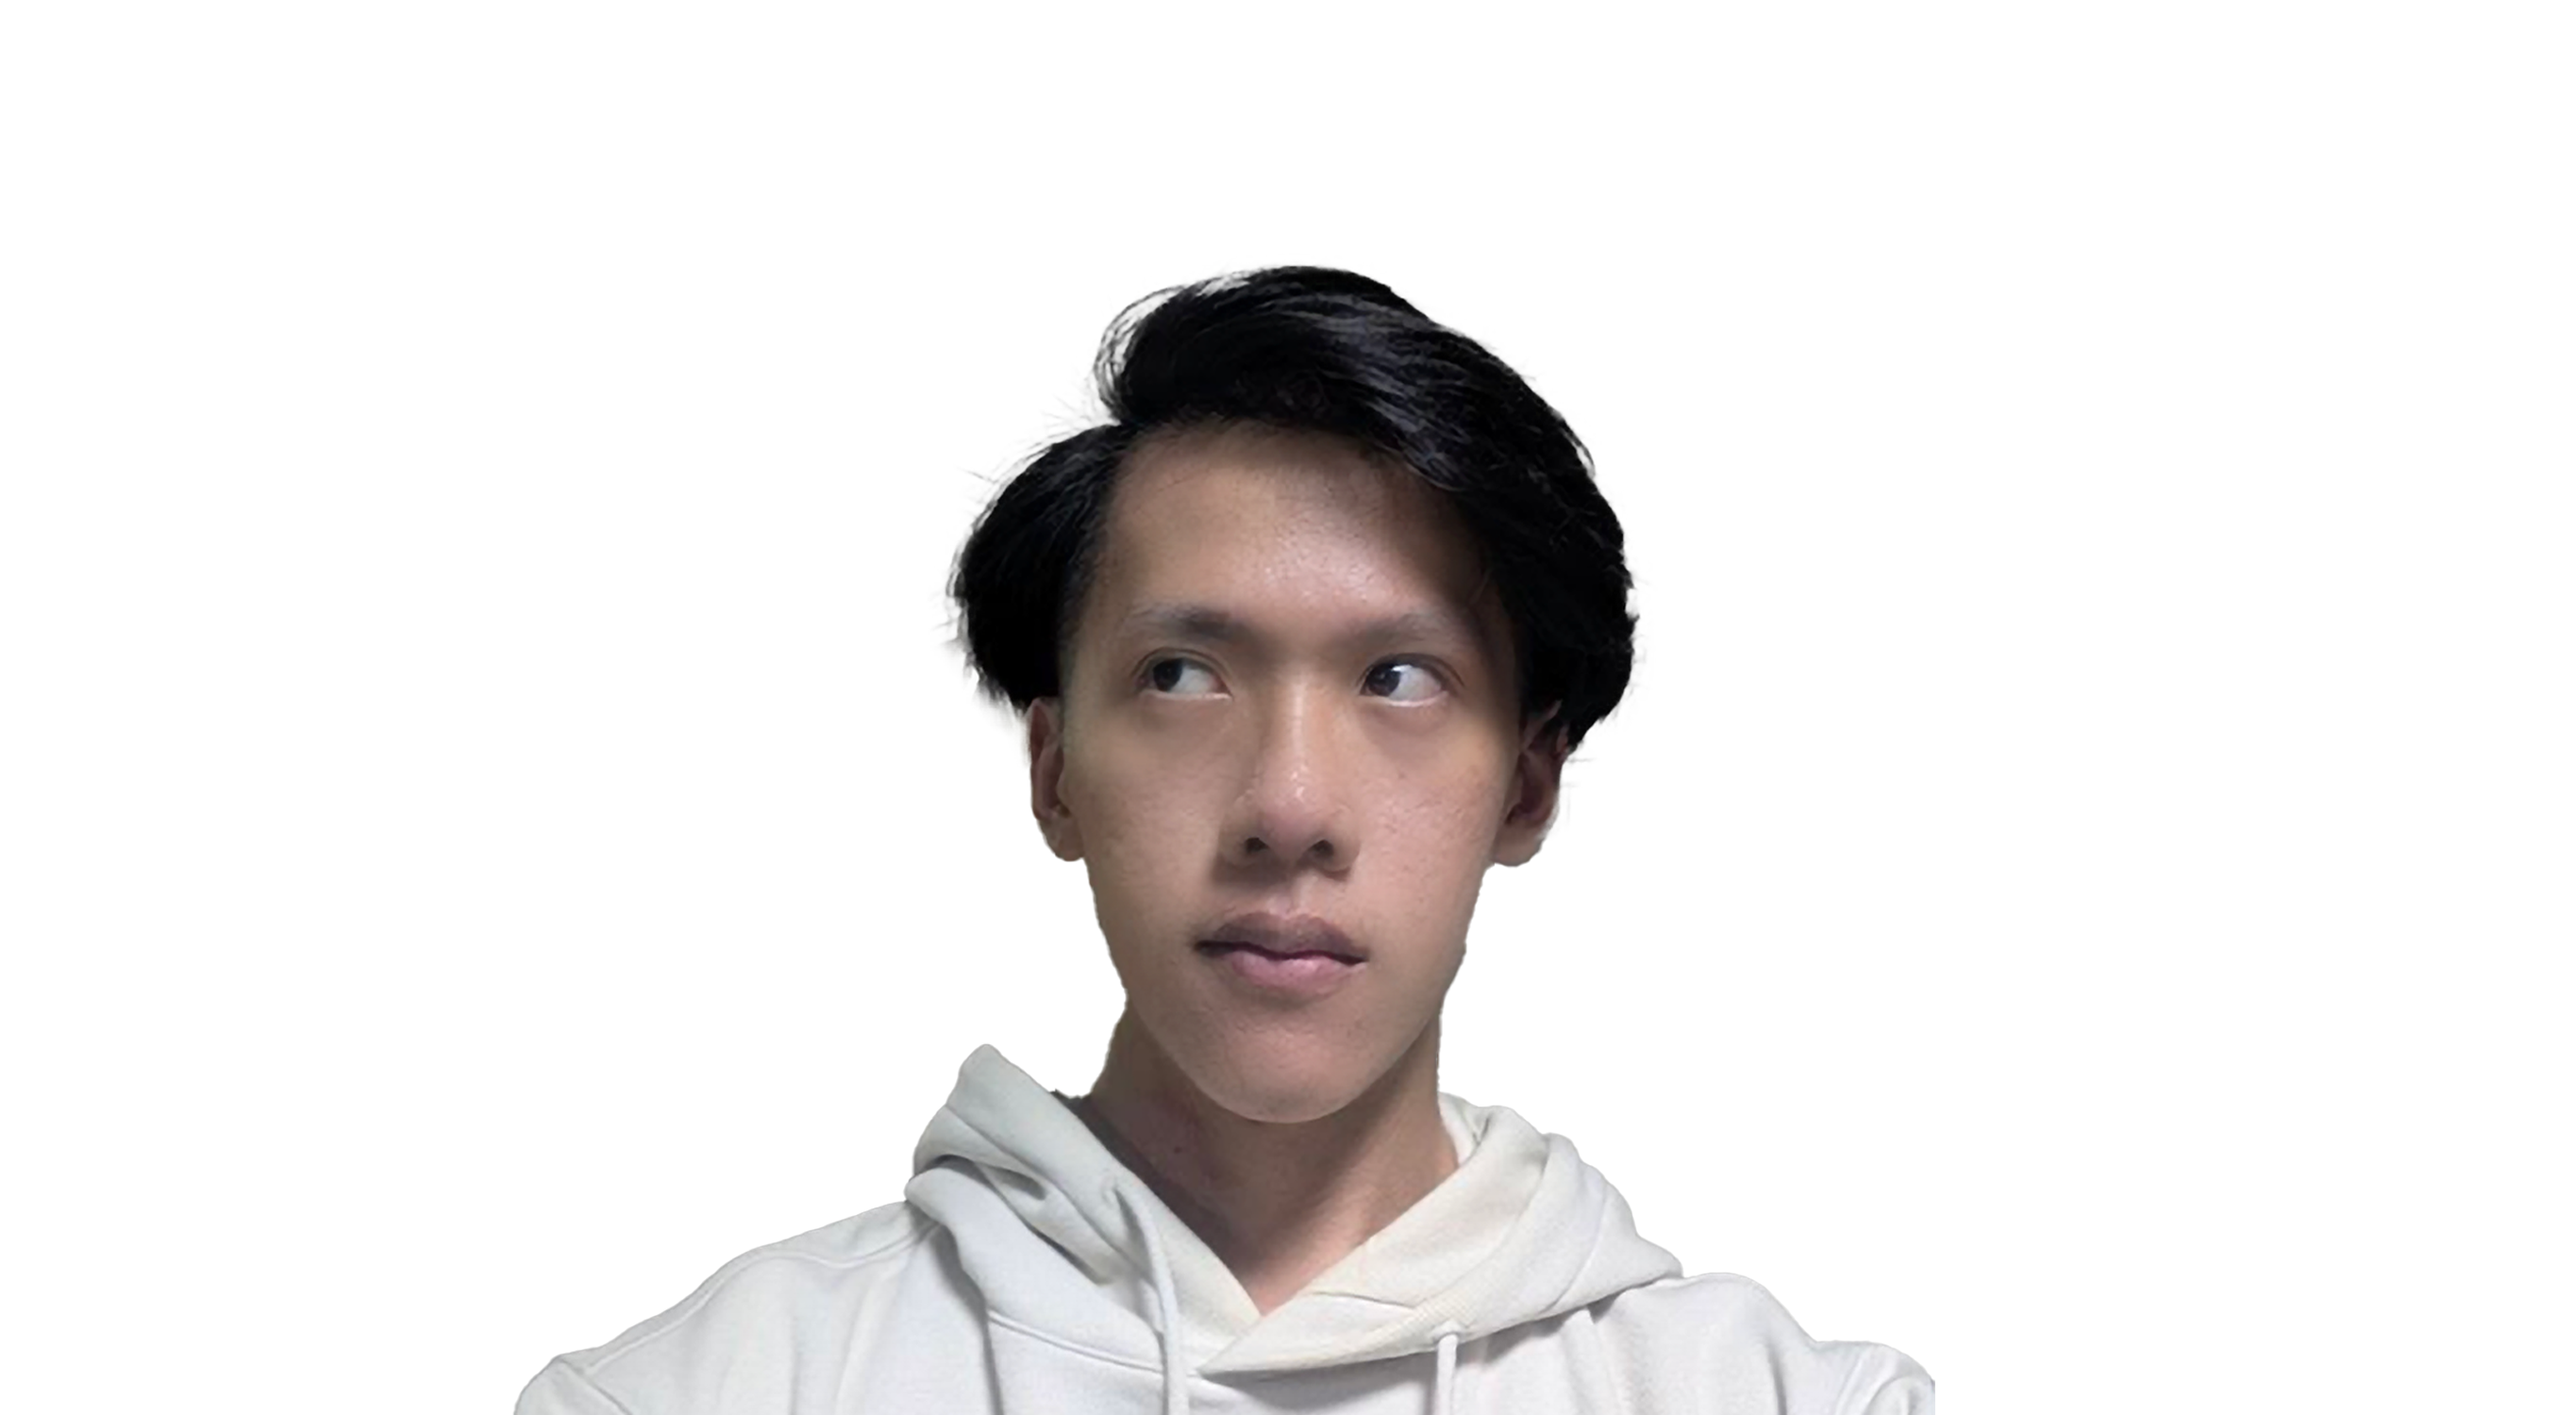
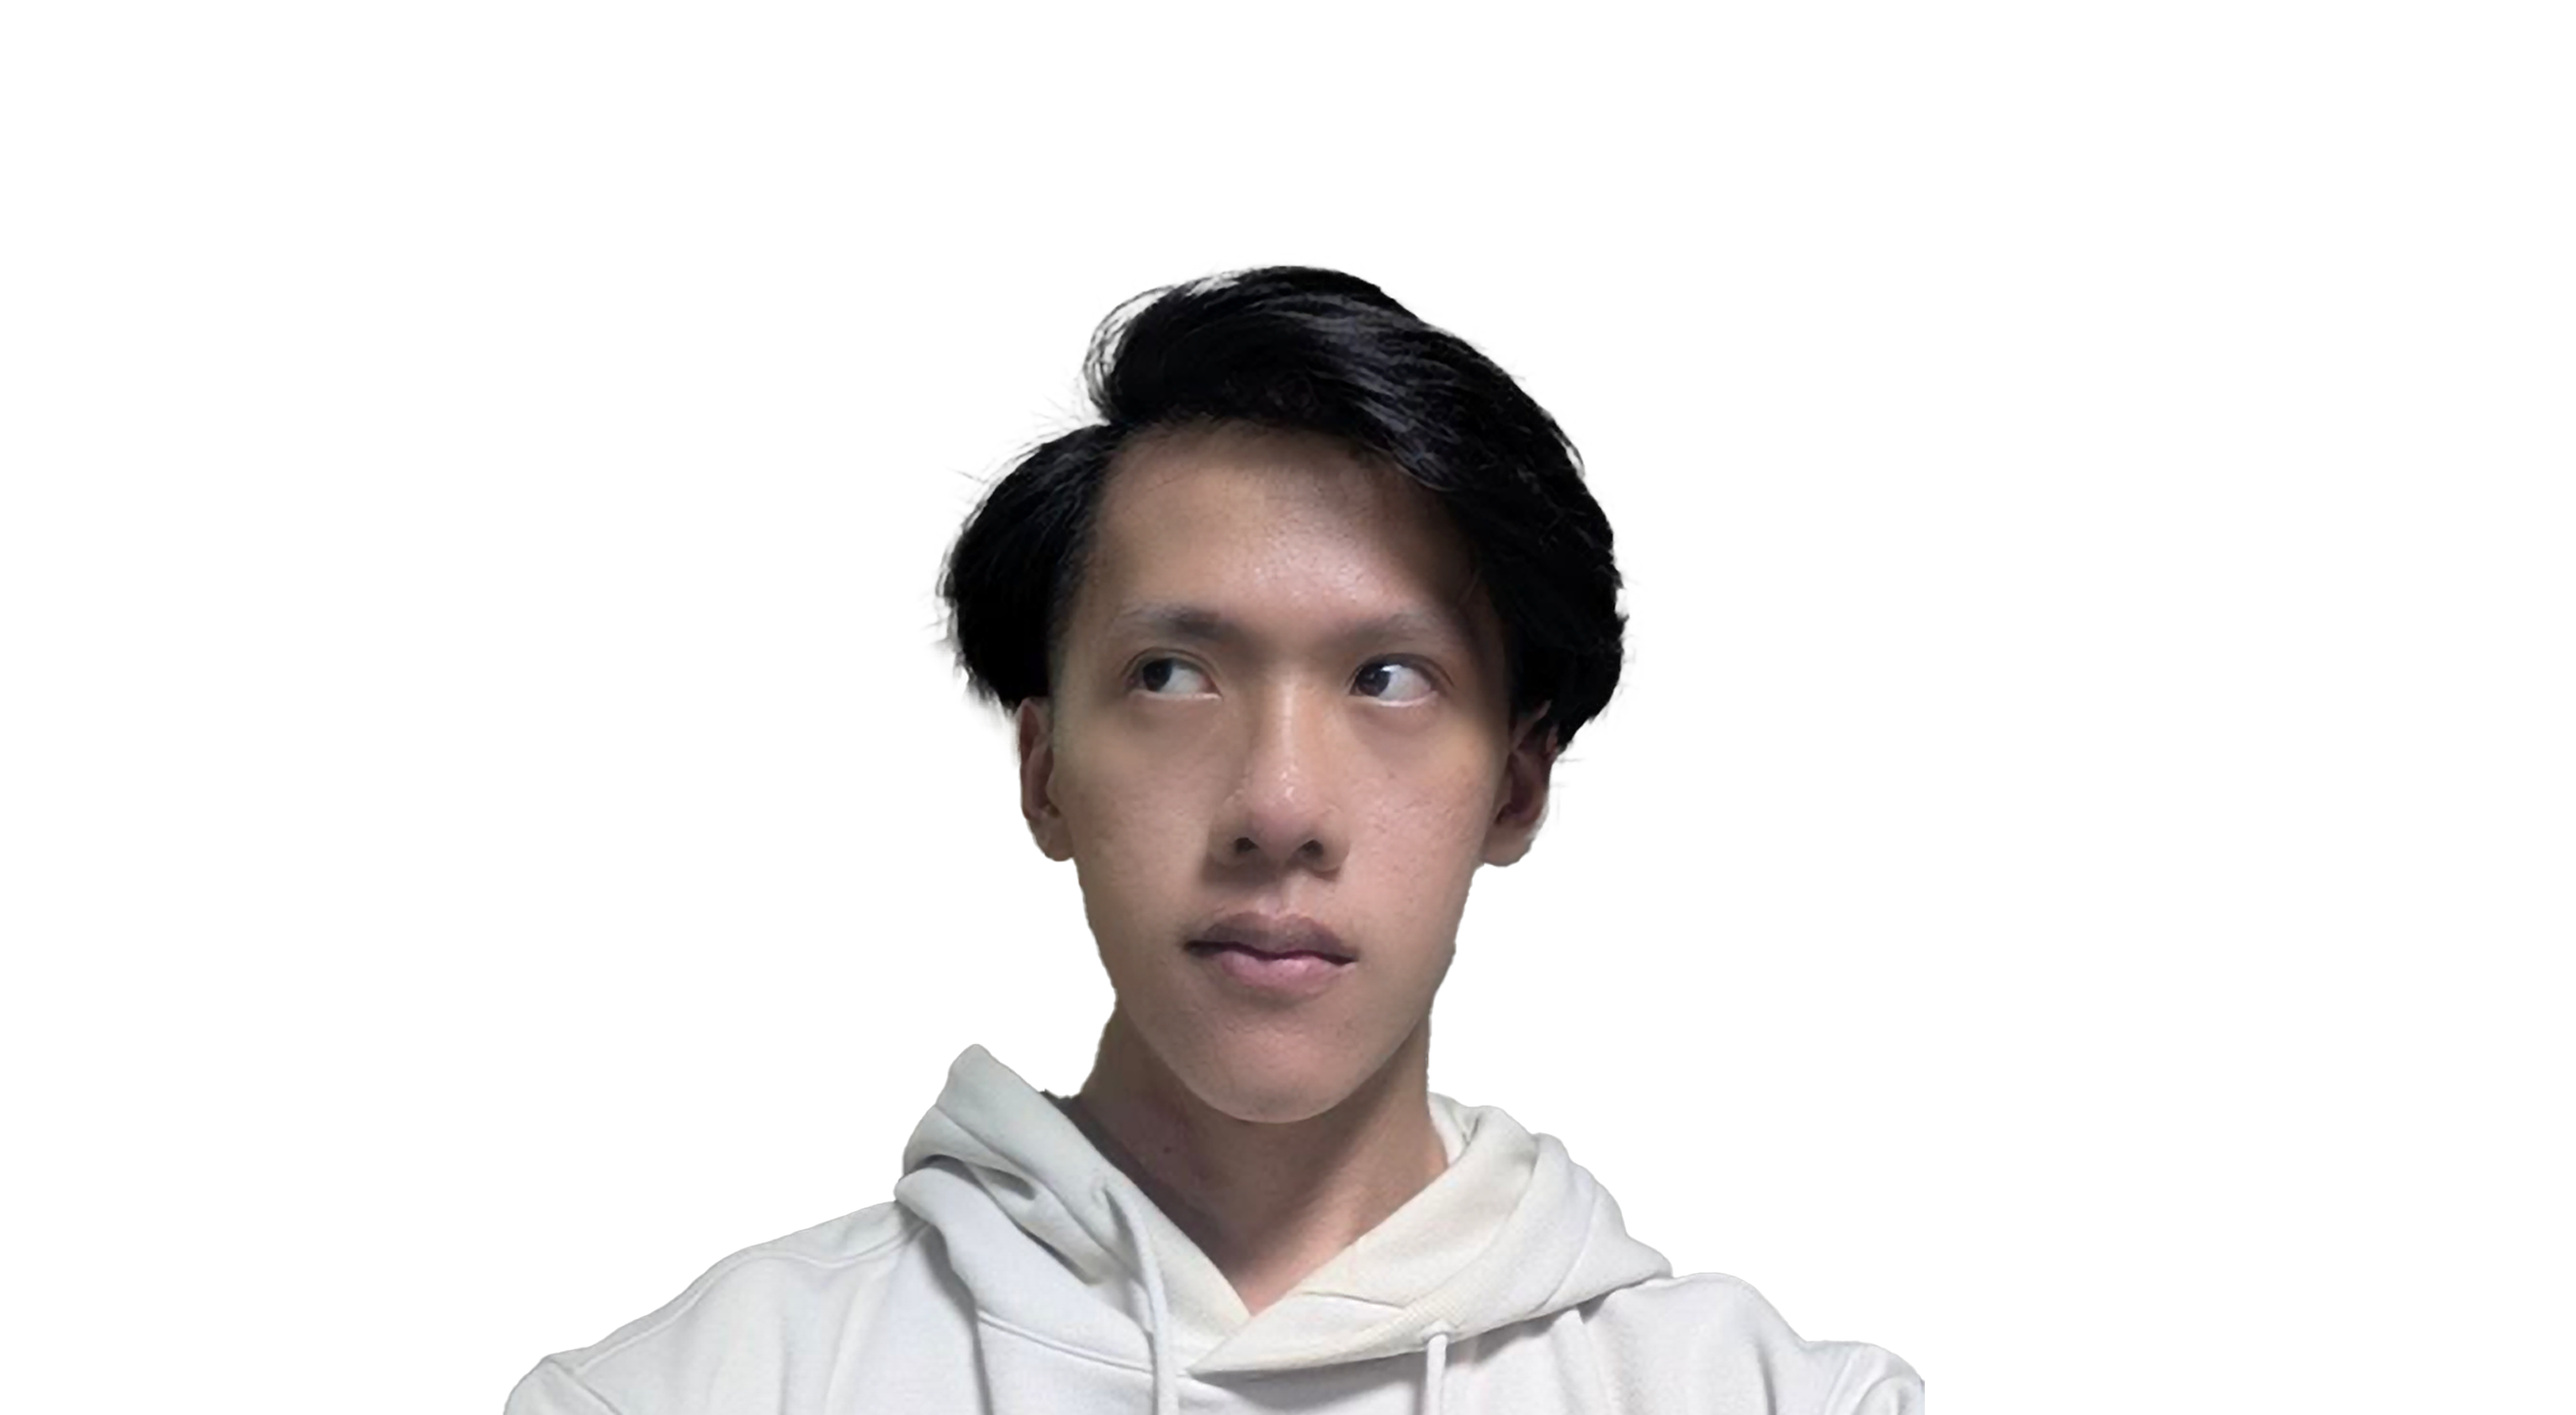
Final Home

diff --git a/src/pages/Home.jsx b/src/pages/Home.jsx
@@ -26,11 +26,11 @@ export default function Home() {
 
           {/* Hover zones */}
           <Link to="/about" className="hover-zone left-zone"></Link>
-          <Link to="/porfolio" className="hover-zone right-zone"></Link>
+          <Link to="/portfolio" className="hover-zone right-zone"></Link>
 
           {/* Full images */}
-          <img src="/images/FULL1.png" className="full-image full-a" alt="Full A" />
-          <img src="/images/FULL2.png" className="full-image full-b" alt="Full B" />
+          <img src="/images/profile-full-left.png" className="full-image full-a" alt="Full A" />
+          <img src="/images/profile-full-right.png" className="full-image full-b" alt="Full B" />
       </div>
 
       <div className="border">

diff --git a/src/pages/Home.css b/src/pages/Home.css
@@ -3,7 +3,7 @@
   width: 100%;
   height: 500px;
   overflow: hidden;
-  /* filter: sepia(0.3) brightness(1.05) contrast(0.95); */
+  filter: brightness(1.05) contrast(1.02) saturate(1.05) sepia(0.05);
 }
 
 /* Half images (cropped) */
